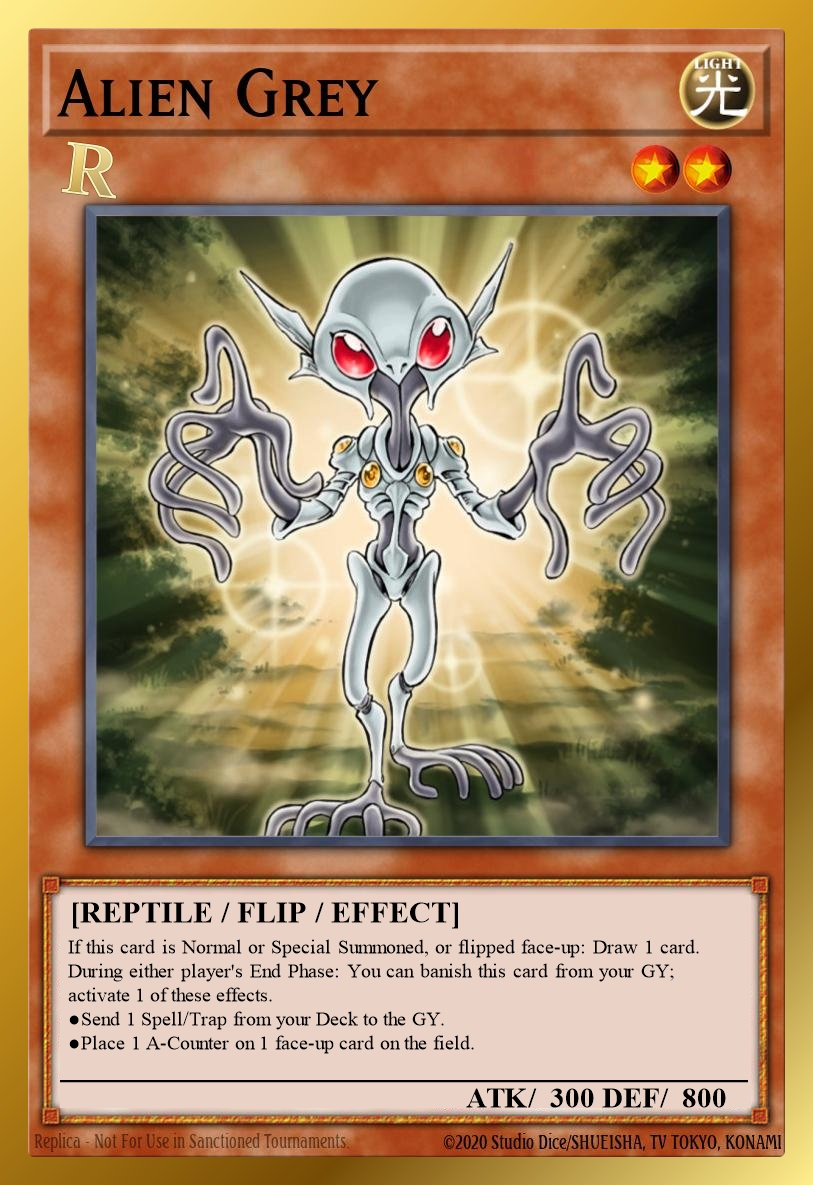
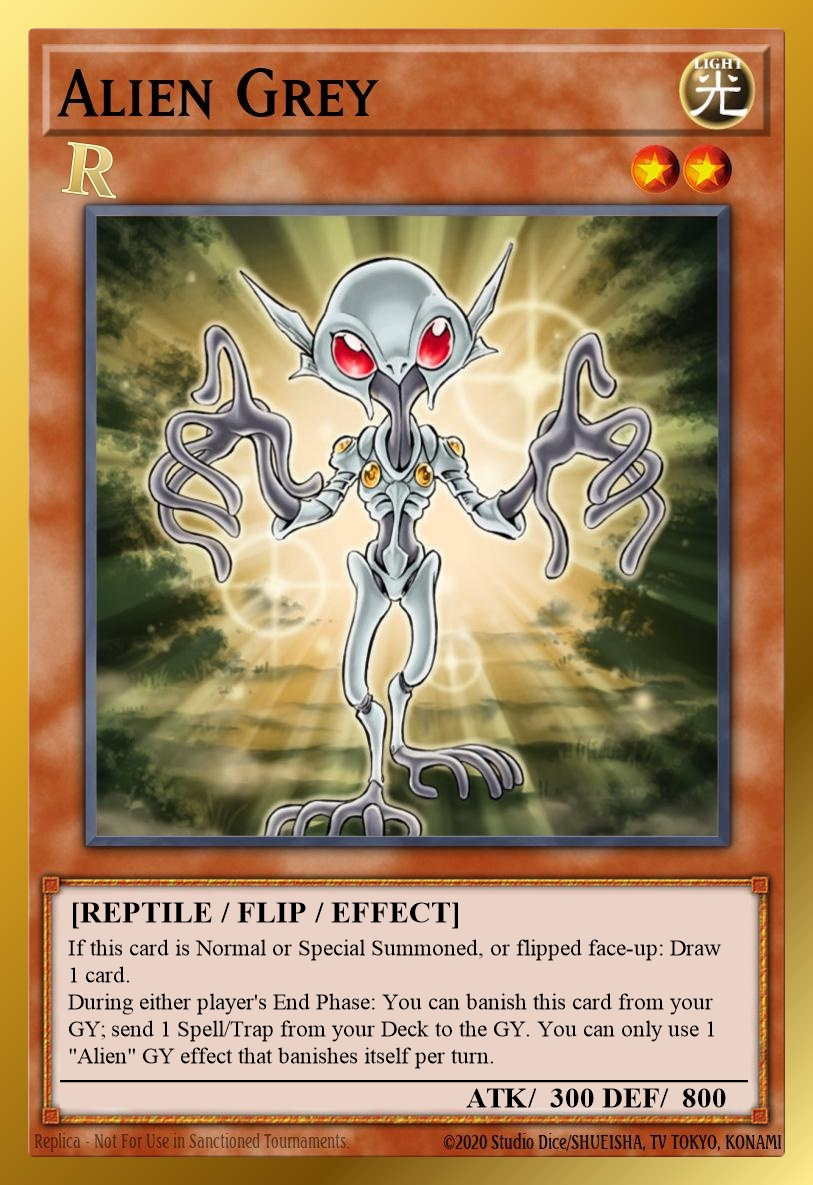
unify Alien effects

Changed region(s): [[0.0615, 0.7806, 0.8918, 0.9055]]

diff --git a/Redux/scripts/build-cards-cdb.js b/Redux/scripts/build-cards-cdb.js
@@ -141,8 +141,8 @@ module.exports = function buildCardsDb({ reduxRoot }) {
   const alienWarriorTextResult = db
     .prepare("UPDATE texts SET desc = ?, str1 = ? WHERE id = ?")
     .run(
-      'If this card is destroyed: You can place 2 A-Counters on face-up cards on the field. (If a monster with an A-Counter battles an "Alien" monster, it loses 300 ATK/DEF for each A-Counter during damage calculation only.)',
-      "Place 2 A-Counters on face-up cards on the field",
+      'If this card is destroyed: You can place 2 A-Counters on face-up non-"Alien" card(s). (If a monster with an A-Counter battles an "Alien" monster, it loses 300 ATK/DEF for each A-Counter during damage calculation only.)',
+      'Place 2 A-Counters on face-up non-"Alien" card(s)',
       98719226,
     );
   const alienMotherTextResult = db
@@ -156,24 +156,24 @@ module.exports = function buildCardsDb({ reduxRoot }) {
   const alienOverlordTextResult = db
     .prepare("UPDATE texts SET desc = ?, str1 = ? WHERE id = ?")
     .run(
-      'You can remove 2 A-Counters from anywhere on the field to Special Summon this card from your hand. Once per turn, you can place 1 A-Counter on each face-up monster your opponent controls. (If a monster with an A-Counter battles an "Alien" monster, it loses 300 ATK and DEF for each A-Counter during damage calculation only.) You can only control 1 Level 6 or higher "Alien" monster.',
-      "Place A-Counters",
+      'You can remove 2 A-Counters from anywhere on the field to Special Summon this card from your hand. Once per turn, you can place 1 A-Counter on each face-up non-"Alien" card. (If a monster with an A-Counter battles an "Alien" monster, it loses 300 ATK and DEF for each A-Counter during damage calculation only.) You can only control 1 Level 6 or higher "Alien" monster.',
+      'Place 1 A-Counter on each face-up non-"Alien" card',
       63253763,
     );
   const alienHunterTextResult = db
     .prepare("UPDATE texts SET desc = ?, str1 = ? WHERE id = ?")
     .run(
-      'During your Main Phase, if you control no monsters and this card is in your GY: You can place 1 "Alien" card from your hand on the bottom of your Deck and banish 2 cards from your GY; Special Summon this card. If this card is Special Summoned this way, you can draw 1 card and place 1 A-Counter on 1 face-up card on the field. You can only use this effect of "Alien Hunter" once per turn.',
+      'During your Main Phase, if you control no monsters and this card is in your GY: You can place 1 "Alien" card from your hand on the bottom of your Deck and banish 2 cards from your GY; Special Summon this card. If this card is Special Summoned this way, you can draw 1 card and place 1 A-Counter on 1 face-up non-"Alien" card. You can only use this effect of "Alien Hunter" once per turn.',
       "Special Summon this card from your GY",
       62315111,
     );
   const alienGreyTextResult = db
     .prepare("UPDATE texts SET desc = ?, str1 = ?, str2 = ?, str3 = ? WHERE id = ?")
     .run(
-      'If this card is Normal or Special Summoned, or flipped face-up: Draw 1 card.\nDuring either player\'s End Phase: You can banish this card from your GY; activate 1 of these effects. You can only use 1 "Alien" GY effect that banishes itself per turn.\n●Send 1 Spell/Trap from your Deck to the GY.\n●Place 1 A-Counter on 1 face-up card on the field.',
+      'If this card is Normal or Special Summoned, or flipped face-up: Draw 1 card.\nDuring either player\'s End Phase: You can banish this card from your GY; send 1 Spell/Trap from your Deck to the GY. You can only use 1 "Alien" GY effect that banishes itself per turn.',
       "Draw 1 card",
       "Send 1 Spell/Trap from your Deck to the GY",
-      "Place 1 A-Counter on 1 face-up card on the field",
+      "",
       62437709,
     );
   const alienDogTextResult = db
@@ -211,7 +211,7 @@ module.exports = function buildCardsDb({ reduxRoot }) {
     .prepare("UPDATE texts SET name = ?, desc = ?, str1 = ?, str2 = ? WHERE id = ?")
     .run(
       'Alien "A" Cell Scatter Burst',
-      'Tribute 1 Reptile monster; distribute new A-Counters equal to its Level among your opponent\'s face-up monsters. After this effect resolves, you can draw 1 card.\nDuring your Main Phase: You can banish this card from your GY; Special Summon 1 "Alien" monster from your hand. You can only use 1 "Alien" GY effect that banishes itself per turn.',
+      'Tribute 1 "Alien" monster; distribute new A-Counters equal to its Level among face-up non-"Alien" cards. After this effect resolves, you can draw 1 card.\nDuring your Main Phase: You can banish this card from your GY; Special Summon 1 "Alien" monster from your hand. You can only use 1 "Alien" GY effect that banishes itself per turn.',
       "Draw 1 card",
       'Special Summon 1 "Alien" monster from your hand',
       73262676,
@@ -220,9 +220,9 @@ module.exports = function buildCardsDb({ reduxRoot }) {
     .prepare("UPDATE texts SET name = ?, desc = ?, str1 = ?, str2 = ? WHERE id = ?")
     .run(
       "Alien Orbital Bombardment",
-      'Send 1 "Alien" monster from your hand or field to the GY, then target 1 card on the field; place that target on the bottom of the owner\'s Deck. You can banish this card from your GY; place 1 A-Counter on 1 face-up card on the field that can have an A-Counter. You can only use 1 "Alien" GY effect that banishes itself per turn.',
+      'Send 1 "Alien" monster from your hand or field to the GY, then target 1 card on the field; place that target on the bottom of the owner\'s Deck. You can banish this card from your GY; place 1 A-Counter on 1 face-up non-"Alien" card. You can only use 1 "Alien" GY effect that banishes itself per turn.',
       "Place 1 card on the bottom of the owner's Deck",
-      "Place 1 A-Counter on 1 face-up card",
+      'Place 1 A-Counter on 1 face-up non-"Alien" card',
       96875080,
     );
   const codeAAncientRuinsTextResult = db

diff --git a/README.md b/README.md
@@ -73,22 +73,22 @@ Redux Limits: `0` = forbidden; `1` = limited; `2` = semi-limited; `3` = unlimite
 <!-- prettier-ignore -->
 | Cardname | Changes |
 | --- | --- |
-| `3` [Alien "A" Cell Scatter Burst](https://yugioh.fandom.com/wiki/%22A%22_Cell_Scatter_Burst) | ⬆ Counts as Alien; Tribute Reptile; can draw; shared Alien GY effect summons from hand |
+| `3` [Alien "A" Cell Scatter Burst](https://yugioh.fandom.com/wiki/%22A%22_Cell_Scatter_Burst) | ⬆ Counts as Alien; Tribute Alien; A-Counters on non-Alien cards; can draw; shared Alien GY effect summons from hand |
 | `3` [Alien Ammonite](https://yugioh.fandom.com/wiki/Alien_Ammonite) | ⬆ Summon from hand/GY trigger; once per turn; summoned monster stays |
 | `3` [Alien Code A Ancient Ruins](https://yugioh.fandom.com/wiki/Code_A_Ancient_Ruins) | 🔄 Counts as Alien; hard once per turn; summons Reptile from hand/GY |
 | `1` [Alien Crop Circles](https://yugioh.fandom.com/wiki/Crop_Circles) | 🔄 Counts as Alien; flips cards face-down; shared Alien GY effect searches monster |
 | `3` [Alien Dog](https://yugioh.fandom.com/wiki/Alien_Dog) | ⬆ Hand special summon while controlling Alien; once per turn 1 A-Counter on non-Alien card; Tuner |
-| `3` [Alien Grey](https://yugioh.fandom.com/wiki/Alien_Grey) | 🔄 Summon/flip trigger draws; shared Alien GY effect sends Spell/Trap or gives A-Counter |
-| `3` [Alien Hunter](https://yugioh.fandom.com/wiki/Alien_Hunter) | 🔄 Main Phase GY summon by bottom-decking Alien from hand and banishing 2 GY cards; hard once per turn; can draw and give A-Counter |
+| `3` [Alien Grey](https://yugioh.fandom.com/wiki/Alien_Grey) | 🔄 Summon/flip trigger draws; shared Alien GY effect sends Spell/Trap from Deck |
+| `3` [Alien Hunter](https://yugioh.fandom.com/wiki/Alien_Hunter) | 🔄 Main Phase GY summon by bottom-decking Alien from hand and banishing 2 GY cards; hard once per turn; can draw and give A-Counter on non-Alien card |
 | `3` [Alien Mass Hypnosis](https://yugioh.fandom.com/wiki/Mass_Hypnosis) | 🔄 Counts as Alien |
 | `3` [Alien Mother](https://yugioh.fandom.com/wiki/Alien_Mother) | 🔄 Summons itself with A-Counters; steals battle-destroyed A-Counter monsters; protects itself |
 | `3` [Alien Mothership Muusik'I](https://yugioh.fandom.com/wiki/Flying_Saucer_Muusik%27i) | 🔄 Counts as Alien; discards to summon itself; banish from GY to summon or search Alien |
 | `3` [Alien Mysterious Triangle](https://yugioh.fandom.com/wiki/Mysterious_Triangle) | 🔄 Counts as Alien |
-| `3` [Alien Orbital Bombardment](https://yugioh.fandom.com/wiki/Orbital_Bombardment) | 🔄 Counts as Alien; costs an Alien; bottom-decks any field card; shared Alien GY effect gives 1 A-Counter on 1 face-up card |
+| `3` [Alien Orbital Bombardment](https://yugioh.fandom.com/wiki/Orbital_Bombardment) | 🔄 Counts as Alien; costs an Alien; bottom-decks any field card; shared Alien GY effect gives 1 A-Counter on non-Alien card |
 | `3` [Alien Otherworld - The "A" Zone](https://yugioh.fandom.com/wiki/Otherworld_-_The_%22A%22_Zone) | 🔄 Counts as Alien |
-| `3` [Alien Overlord](https://yugioh.fandom.com/wiki/Alien_Overlord) | 🔄 Shares high-level Alien control limit |
+| `3` [Alien Overlord](https://yugioh.fandom.com/wiki/Alien_Overlord) | 🔄 Shares high-level Alien control limit; A-Counters on all face-up non-Alien cards |
 | `3` [Alien Planet Pollutant Virus](https://yugioh.fandom.com/wiki/Planet_Pollutant_Virus) | 🔄 Counts as Alien |
-| `3` [Alien Warrior](https://yugioh.fandom.com/wiki/Alien_Warrior) | ⬆ Destroy trigger; gives 2 A-Counters anywhere on field |
+| `3` [Alien Warrior](https://yugioh.fandom.com/wiki/Alien_Warrior) | ⬆ Destroy trigger; gives 2 A-Counters on non-Alien card(s) |
 | `2` [Black Whirlwind](https://yugioh.fandom.com/wiki/Black_Whirlwind) | ⬇ Once per turn |
 | `1` [Black Luster Soldier - Envoy of the Beginning](https://yugioh.fandom.com/wiki/Black_Luster_Soldier_-_Envoy_of_the_Beginning) | ⬇ Face-up banish only; second attack deals no damage |
 | `1` [Brionac, Dragon of the Ice Barrier](https://yugioh.fandom.com/wiki/Brionac,_Dragon_of_the_Ice_Barrier) | ⬇ Once per turn |
